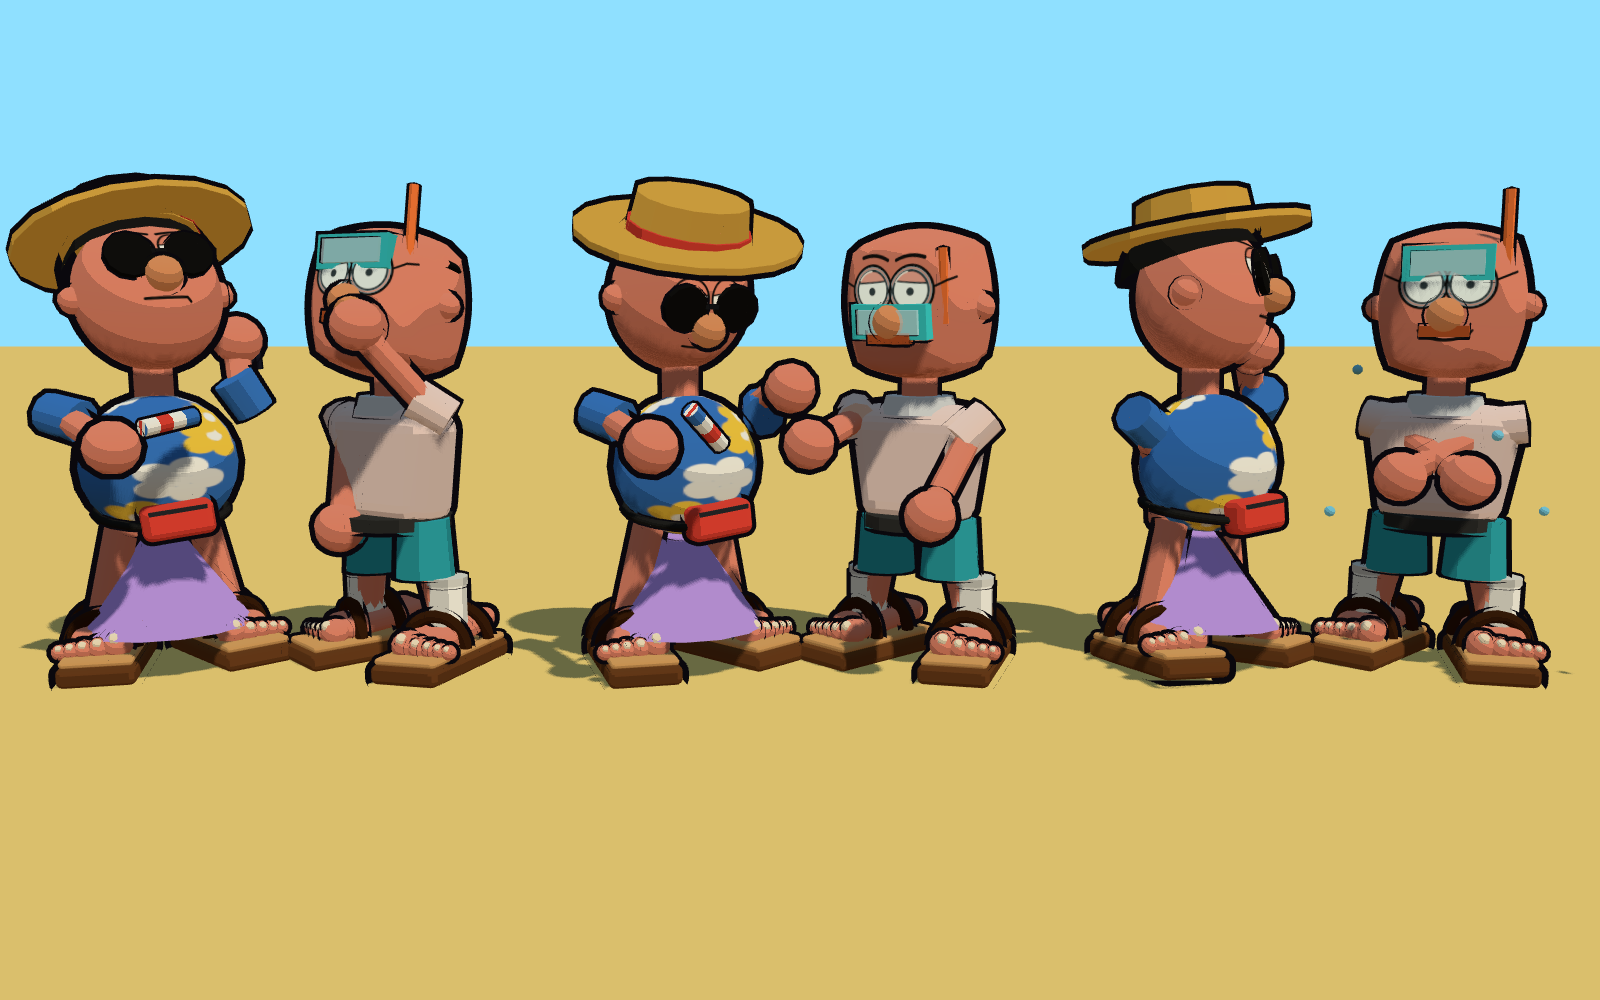
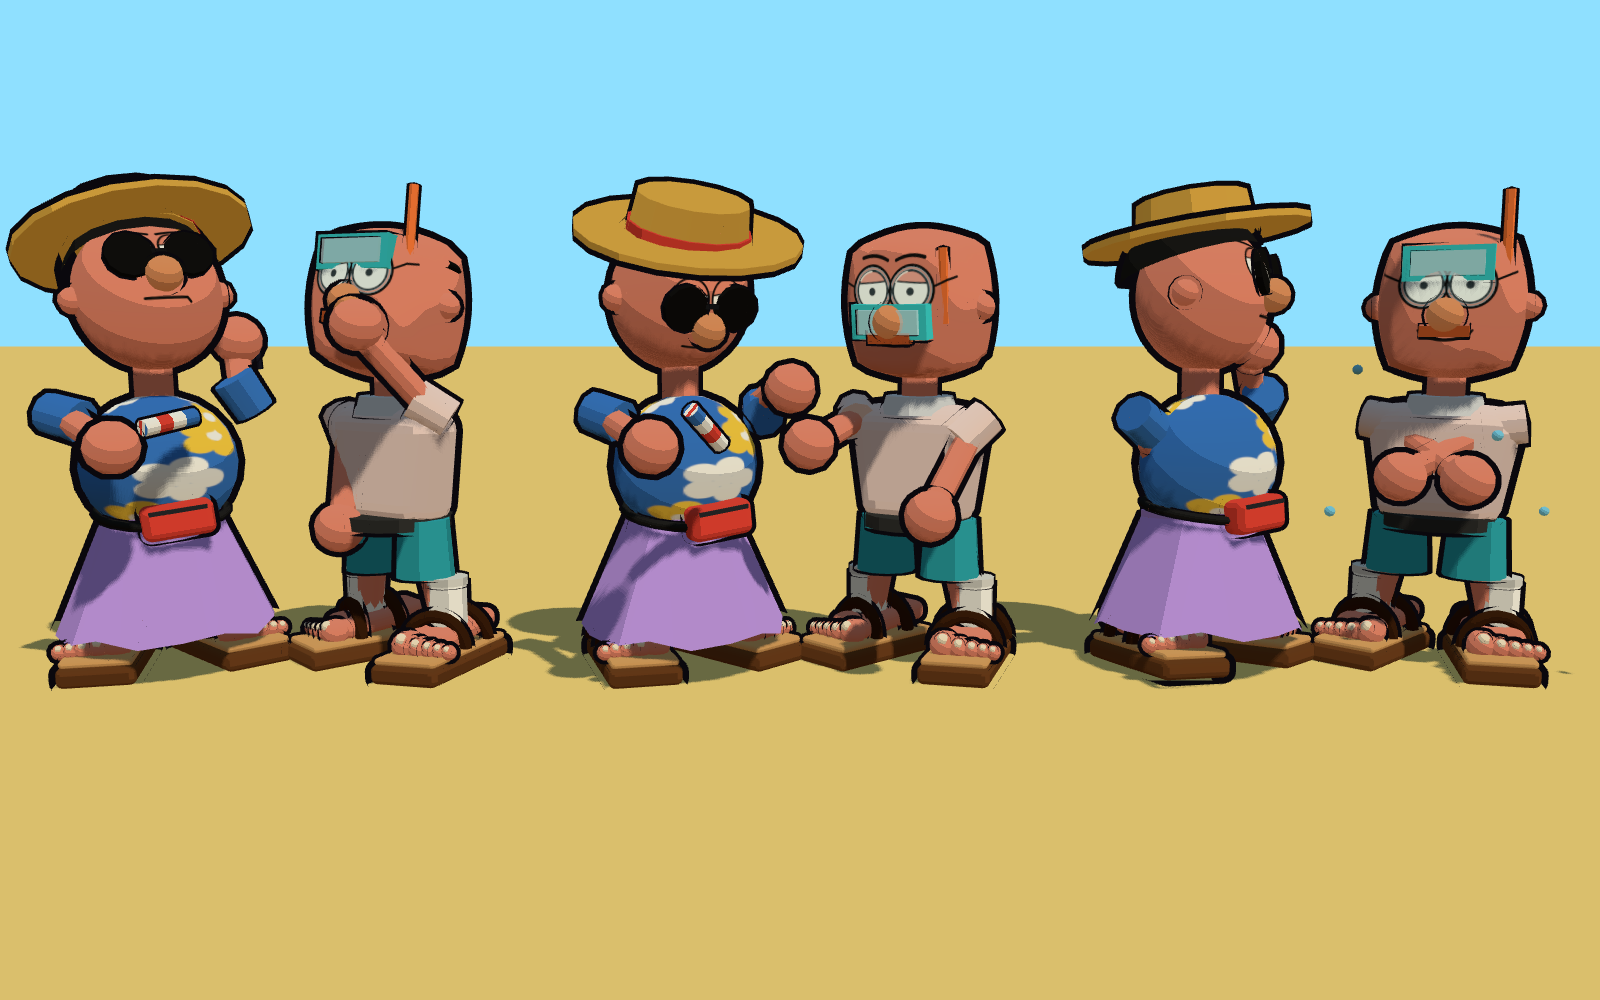
Rock repariert

Changed region(s): [[0.3438, 0.496, 0.5, 0.682], [0.6562, 0.496, 0.8125, 0.682], [0.0312, 0.527, 0.1875, 0.682]]

diff --git a/spiel/js/kunden.js b/spiel/js/kunden.js
@@ -198,9 +198,12 @@ export function buildKunde(k, seed = 1, outfit = null) {
     }
     root.add(leg); legs.push(leg);
   }
-  if (hose === 'rock') {
-    const skirt = toonMesh(new THREE.ConeGeometry(0.62, 0.9, 14, 1, true), toon(pantsColor, { side: THREE.DoubleSide }), { outline: 0.045 });
-    skirt.position.set(0, hipY - 0.35, 0); root.add(skirt);
+  if (hose === 'rock') { // Glockenrock: oben Hüftbreite, unten weiter als der Beinabstand, Saum wellig; die Beine kommen unten raus
+    const skirtGeo = new THREE.CylinderGeometry(0.42, 0.78, 0.85, 16, 1, true);
+    deform(skirtGeo, (v) => { if (v.y < 0) v.y += 0.04 * Math.sin(Math.atan2(v.z, v.x) * 6); });
+    const skirt = toonMesh(skirtGeo, toon(pantsColor, { side: THREE.DoubleSide }), { outline: 0.045 });
+    skirt.position.set(0, hipY - 0.37, 0); root.add(skirt);
+    const bund = toonMesh(new THREE.CylinderGeometry(0.43, 0.43, 0.08, 16), pantsColor, { outline: 0.03 }); bund.position.set(0, hipY + 0.04, 0); root.add(bund);
   }
 
   // Rumpf je Hemd
